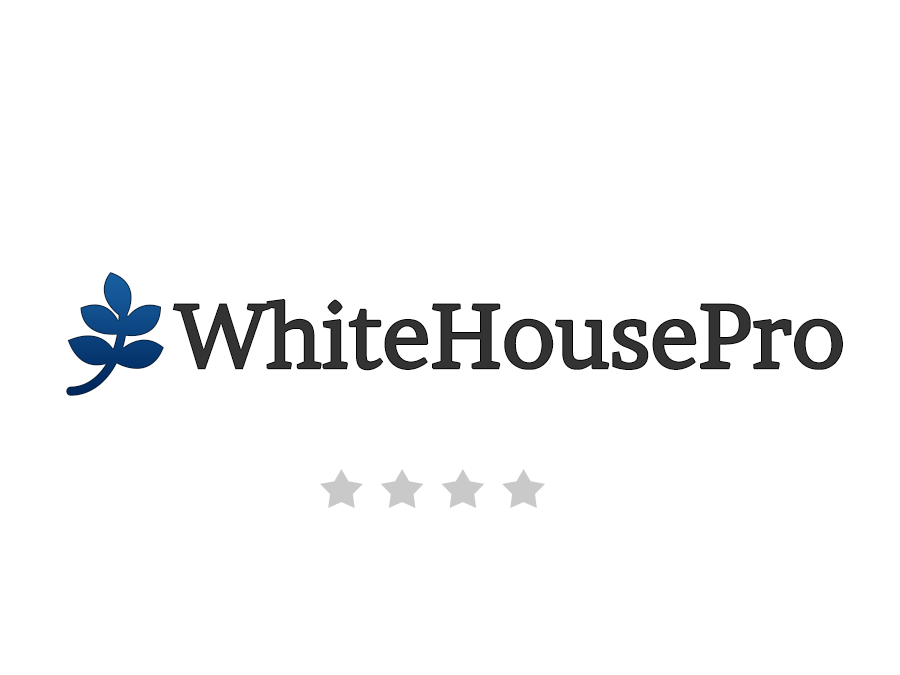
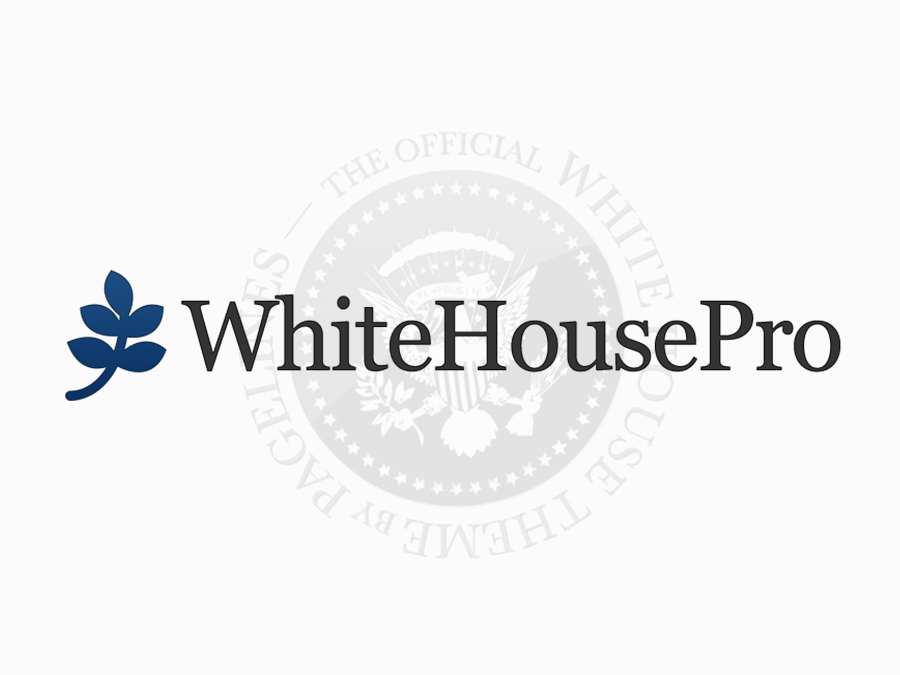
theme screenshot change

Changed region(s): [[0.0622, 0.3422, 0.9333, 0.7467]]

diff --git a/config.php b/config.php
@@ -29,7 +29,6 @@ class PageLinesInstallTheme extends PageLinesInstall{
 			$content = array(
 				array(
 					'object'	=> 'PageLinesPostLoop',
-	
 				)
 			);
 			
@@ -54,14 +53,19 @@ class PageLinesInstallTheme extends PageLinesInstall{
 			'footer'	=> array(
 				array(
 					'content'	=> array(
-						array( 'object'	=> 'iFooter' ),
+						array( 'object'	=> 'WHPFooter' ),
 					)
 				)
 			),
 			'header'	=> array(
 				array(
+					'settings'	=> array(
+						'pl_area_pad' 		=> '0px',
+					),
 					'content'	=> array(
-						array( 'object'	=> 'iHeader' ),
+						array( 
+							'object'	=> 'WHPHeader',
+						),
 					)
 				)
 			)
@@ -79,15 +83,15 @@ class PageLinesInstallTheme extends PageLinesInstall{
 		$options_array = array(
 			'supersize_bg'					=> 0,
 			'content_width_px'				=> '1100px',
-			'linkcolor'						=> '#59B1F6',
-			'text_primary'					=> '#333333',
-			'bodybg'						=> '#ffffff',
+			'linkcolor'						=> '#B9191E',
+			'text_primary'					=> '#414141',
+			'bodybg'						=> '#F9F9F9',
 			'layout_mode'					=> 'pixel',
 			'layout_display_mode'			=> 'display-full',
-			'font_primary'					=> 'open_sans',
+			'font_primary'					=> 'georgia',
 			'base_font_size'				=> 14,
 			'font_primary_weight'			=> 400,
-			'font_headers'					=> 'brawler',
+			'font_headers'					=> 'georgia',
 			'header_base_size'				=> 16,
 			'font_headers_weight'			=> 300,
 			'region_disable_fixed'			=> 1
@@ -104,14 +108,14 @@ class PageLinesInstallTheme extends PageLinesInstall{
 	function map_templates_to_pages( ){
 		
 		$map = array(
-			//'is_404'	=> 'ibp-archive',
-			'tag'		=> 'ibp-archive',
-			'search'	=> 'ibp-archive',
-			'category'	=> 'ibp-archive',
-			'author'	=> 'ibp-archive',
-			'archive'	=> 'ibp-archive',
-			'blog'		=> 'ibp-blog',
-			'post'		=> 'ibp-post',
+			//'is_404'	=> 'whp-archive',
+			'tag'		=> 'whp-archive',
+			'search'	=> 'whp-archive',
+			'category'	=> 'whp-archive',
+			'author'	=> 'whp-archive',
+			'archive'	=> 'whp-archive',
+			'blog'		=> 'whp-blog',
+			'post'		=> 'whp-post',
 		);
 		
 		return $map;
@@ -127,10 +131,10 @@ class PageLinesInstallTheme extends PageLinesInstall{
 	function page_templates(){
 		
 		$templates = array(
-			'ibp-welcome' 		=> $this->template_welcome(), // default on install
-			'ibp-blog' 		=> $this->template_blog(),
-			'ibp-post' 		=> $this->template_post(),
-			'ibp-archive'	=> $this->template_archive()
+			'whp-welcome' 	=> $this->template_welcome(), // default on install
+			'whp-blog' 		=> $this->template_blog(),
+			'whp-post' 		=> $this->template_post(),
+			'whp-archive'	=> $this->template_archive()
 		);
 				
 		return $templates;
@@ -140,9 +144,9 @@ class PageLinesInstallTheme extends PageLinesInstall{
 	// Template Map
 	function template_welcome(){
 		
-		$template['key'] = 'ibp-welcome';
+		$template['key'] = 'whp-welcome';
 		
-		$template['name'] = 'iBlogPro | Welcome';
+		$template['name'] = 'WhiteHousePro | Welcome';
 		
 		$template['desc'] = 'Getting started guide &amp; template.';
 		
@@ -157,16 +161,17 @@ class PageLinesInstallTheme extends PageLinesInstall{
 				
 				'content'	=> array(
 					array(
-						'object'	=> 'iSlider',
+						'object'	=> 'WHPSlider',
 						'settings'	=> array(
-							'islider_array'	=> array(
+							'whpslider_array'	=> array(
 								array(
-									'image'			=> '[pl_child_url]/images/default.jpg',
-									'title'			=> 'Welcome to iBlogPro',
-									'text'			=> 'Inspired by modern technology, this Wordpress theme is the perfect way<br /> to give your website a look that is highly professional and clean.',
-									'element_color'	=> 'element-light',
-									'link'			=> home_url(),
-									'link_text'		=> 'View Your Blog ',
+									'image'         => 'http://themes.pagelines.com/whitehousepro/wp-content/uploads/sites/7/2014/08/slide1.jpg',
+				                    'button_color'  => 'whp-red',
+				                    'location'		=> 'slide-left',
+				                    'title'         => 'Welcome to WhiteHousePro',
+				                    'text'          => 'A sophisticated theme for Wordpress that makes a bold impression. Powered by PageLines DMS with drag-and-drop.',
+				                    'link'          => 'http://www.pagelines.com/',
+				                    'link_text'     => 'Visit PageLines.com',
 								),
 							)
 						)
@@ -211,9 +216,9 @@ class PageLinesInstallTheme extends PageLinesInstall{
 	// Template Map
 	function template_archive(){
 		
-		$template['key'] = 'ibp-archive';
+		$template['key'] = 'whp-archive';
 		
-		$template['name'] = 'iBlogPro | Archive Page';
+		$template['name'] = 'WhiteHousePro | Archive Page';
 		
 		$template['desc'] = 'Template for archives and other listings.';
 		
@@ -226,14 +231,13 @@ class PageLinesInstallTheme extends PageLinesInstall{
 
 				'content'	=> array(
 					array(
-						'object'	=> 'iSubheader',
+						'object'	=> 'PageLinesHighlight',
 						'settings'	=> array(
-							'ish_link'		=> 'http://www.pagelines.com/',
-							'ish_link_text'	=> 'PageLines',
+							'_highlight_head'	=> 'Archive',
 						),
 					),
 					array(
-						'object'	=> 'iBlog',
+						'object'	=> 'WHPBlog',
 					),
 				)
 			),
@@ -245,9 +249,9 @@ class PageLinesInstallTheme extends PageLinesInstall{
 	// Template Map
 	function template_blog(){
 		
-		$template['key'] = 'ibp-blog';
+		$template['key'] = 'whp-blog';
 		
-		$template['name'] = 'iBlogPro | Blog Page';
+		$template['name'] = 'WhiteHousePro | Blog Page';
 		
 		$template['desc'] = 'Used on blog pages.';
 		
@@ -260,14 +264,14 @@ class PageLinesInstallTheme extends PageLinesInstall{
 
 				'content'	=> array(
 					array(
-						'object'	=> 'iSubheader',
+						'object'	=> 'PageLinesHighlight',
 						'settings'	=> array(
-							'ish_link'		=> 'http://www.pagelines.com/',
-							'ish_link_text'	=> 'PageLines',
+							'_highlight_head'	=> 'Blog',
+							'_highlight_subhead' => 'Latest news from WhiteHousePro',
 						),
 					),
 					array(
-						'object'	=> 'iBlog',
+						'object'	=> 'WHPBlog',
 					),
 					array(
 						'object'	=> 'PageLinesPagination',
@@ -282,9 +286,9 @@ class PageLinesInstallTheme extends PageLinesInstall{
 	// Template Map
 	function template_post(){
 		
-		$template['key'] = 'ibp-post';
+		$template['key'] = 'whp-post';
 		
-		$template['name'] = 'iBlogPro | Single Post';
+		$template['name'] = 'WhiteHousePro | Single Post';
 		
 		$template['desc'] = 'Used on single post pages.';
 		
@@ -297,7 +301,7 @@ class PageLinesInstallTheme extends PageLinesInstall{
 
 				'content'	=> array(
 					array(
-						'object'	=> 'iBlog',
+						'object'	=> 'WHPBlog',
 					),
 					array(
 						'object'	=> 'PageLinesComments',
@@ -321,10 +325,10 @@ class PageLinesInstallTheme extends PageLinesInstall{
 			'post_type'		=> 'page',
 			'post_status'	=> 'draft',
 			'post_author'	=> $user_ID,
-			'post_title'	=> __( 'PageLines IblogPro Getting Started', 'pagelines' ),
+			'post_title'	=> __( 'PageLines WhiteHousePro Getting Started', 'pagelines' ),
 			'post_content'	=> $this->getting_started_content(),
 			'post_name'		=> 'pl-getting-started',
-			'template'		=> 'ibp-welcome',
+			'template'		=> 'whp-welcome',
 		);
 		
 		$post_data = wp_parse_args( $data, $page );
